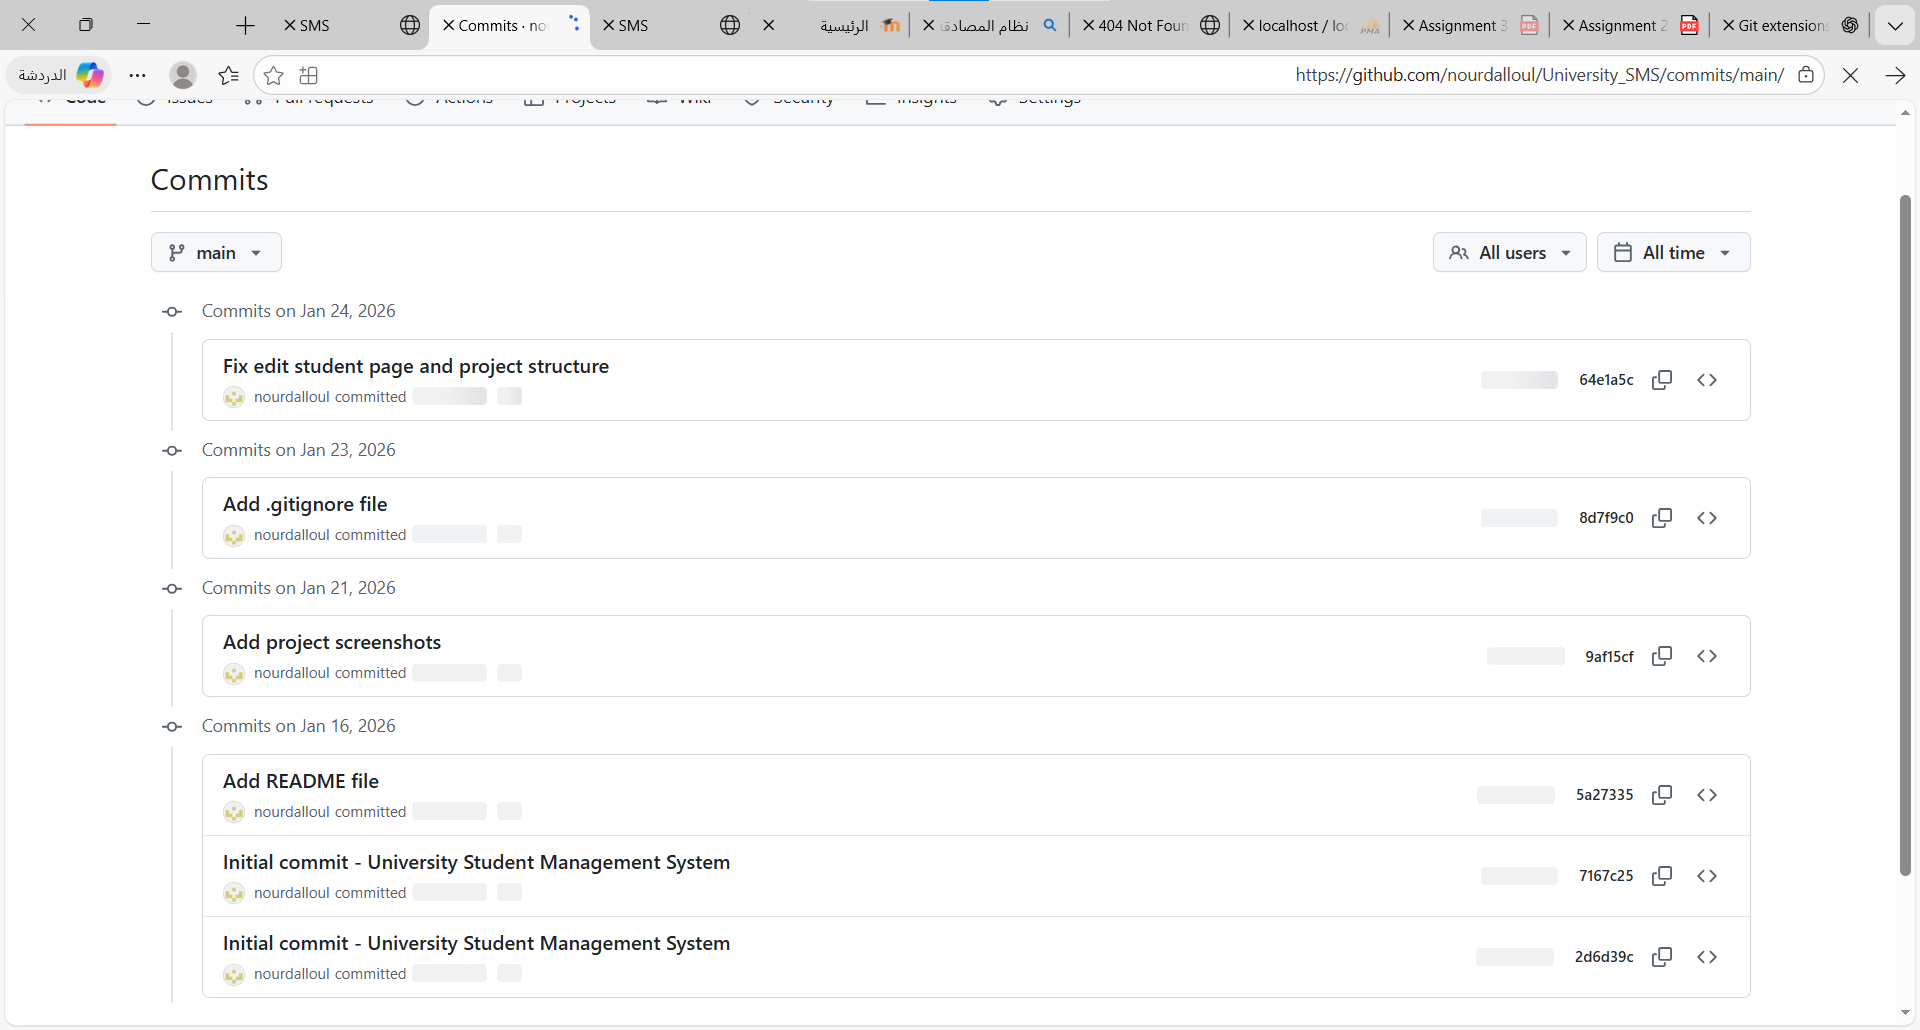
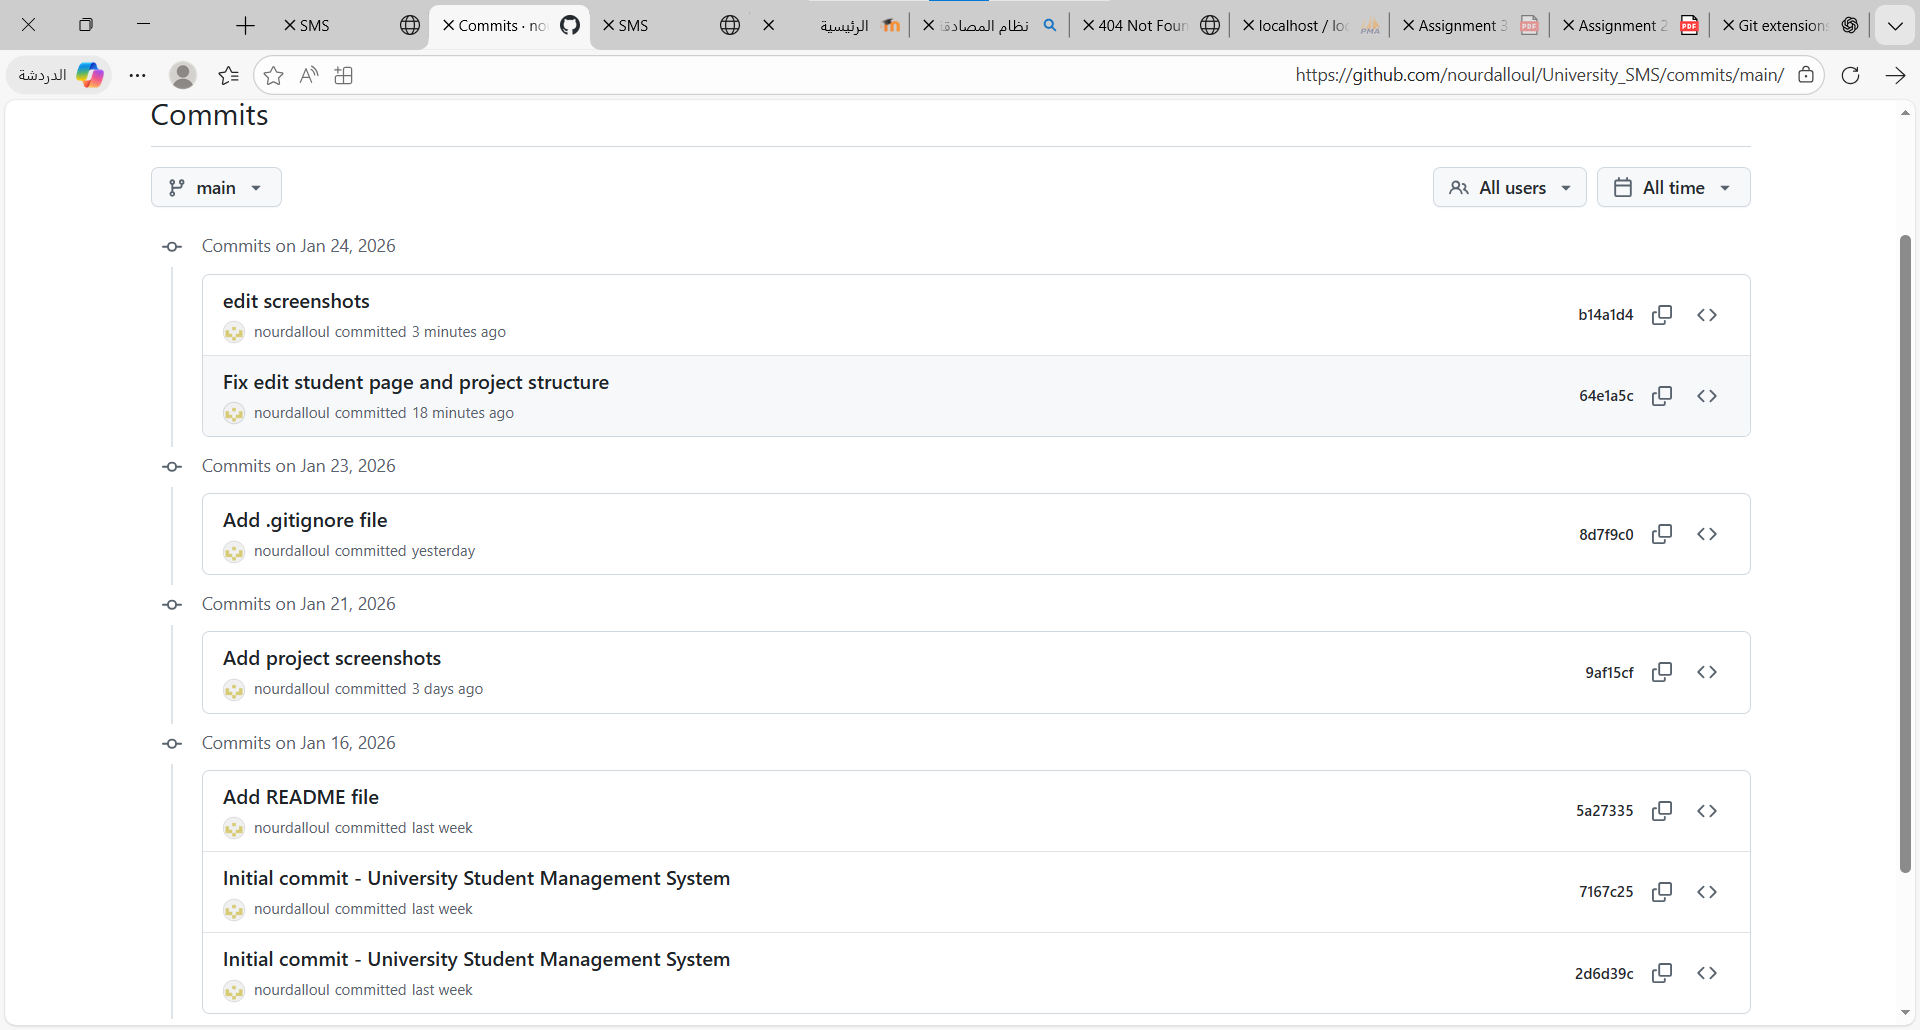
add new screenshots , update the README and add screenshots

diff --git a/README.md b/README.md
@@ -73,6 +73,15 @@ http://localhost:8080/viewStudents.php
 
 ---
 
+🌐 VPS
+   apt install git /* to install git */
+   apt install docker /* to install docker */
+   git clone https://github.com/nourdalloul/University_SMS.git /* to clone repo */
+   cd University_SMS /* enter the directory */
+   docker build. /* build the docker image */
+   docker compose up /* to run docker compose up */
+   URL : https://sse3.parta.com.tr:8080
+
 ## 📂 Project Structure
 
 ```

diff --git a/docs/notes.md b/docs/notes.md
@@ -1,0 +1,3 @@
+1. Encountered SSL/certificate (OpenSSL) issues during Docker installation on the new Linux environment, which required troubleshooting certificate trust and verification errors before proceeding.
+
+2. Needed to coordinate with the network administrator to request external firewall access for the service port so the deployed service could be reached from outside the network.
